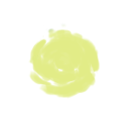
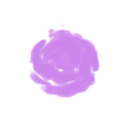
에너지 이미지 수정
쿠로카/마요 에너미 처리

Changed region(s): [[0.2188, 0.2188, 0.7812, 0.7812]]

diff --git a/src/main/java/reactkr/ModFile.java b/src/main/java/reactkr/ModFile.java
@@ -56,12 +56,12 @@ public class ModFile implements
     private static final String MK_ATTACK_S_ART = makeImagePath("512/mk_attack.png");
     private static final String MK_SKILL_S_ART = makeImagePath("512/mk_skill.png");
     private static final String MK_POWER_S_ART = makeImagePath("512/mk_power.png");
-    private static final String MK_CARD_ENERGY_S = makeImagePath("512/energy.png");
-    private static final String MK_TEXT_ENERGY = makeImagePath("512/text_energy.png");
+    private static final String MK_CARD_ENERGY_S = makeImagePath("512/mk_1_energy.png");
+    private static final String MK_TEXT_ENERGY = makeImagePath("512/mk_1_text_energy.png");
     private static final String MK_ATTACK_L_ART = makeImagePath("1024/mk_attack.png");
     private static final String MK_SKILL_L_ART = makeImagePath("1024/mk_skill.png");
     private static final String MK_POWER_L_ART = makeImagePath("1024/mk_power.png");
-    private static final String MK_CARD_ENERGY_L = makeImagePath("1024/energy.png");
+    private static final String MK_CARD_ENERGY_L = makeImagePath("1024/mk_1_energy.png");
     private static final String MK_CHARSELECT_BUTTON = makeImagePath("charSelect/mk_charButton.png");
     private static final String MK_CHARSELECT_PORTRAIT = makeImagePath("charSelect/temp_mk_charBG.png");
 
@@ -71,12 +71,12 @@ public class ModFile implements
     private static final String MM_ATTACK_S_ART = makeImagePath("512/mm_attack.png");
     private static final String MM_SKILL_S_ART = makeImagePath("512/mm_skill.png");
     private static final String MM_POWER_S_ART = makeImagePath("512/mm_power.png");
-    private static final String MM_CARD_ENERGY_S = makeImagePath("512/energy.png");
-    private static final String MM_TEXT_ENERGY = makeImagePath("512/text_energy.png");
+    private static final String MM_CARD_ENERGY_S = makeImagePath("512/mm_1_energy.png");
+    private static final String MM_TEXT_ENERGY = makeImagePath("512/mm_1_text_energy.png");
     private static final String MM_ATTACK_L_ART = makeImagePath("1024/mm_attack.png");
     private static final String MM_SKILL_L_ART = makeImagePath("1024/mm_skill.png");
     private static final String MM_POWER_L_ART = makeImagePath("1024/mm_power.png");
-    private static final String MM_CARD_ENERGY_L = makeImagePath("1024/energy.png");
+    private static final String MM_CARD_ENERGY_L = makeImagePath("1024/mm_1_energy.png");
     private static final String MM_CHARSELECT_BUTTON = makeImagePath("charSelect/charButton.png");
     private static final String MM_CHARSELECT_PORTRAIT = makeImagePath("charSelect/warning_charBG.png");
 
